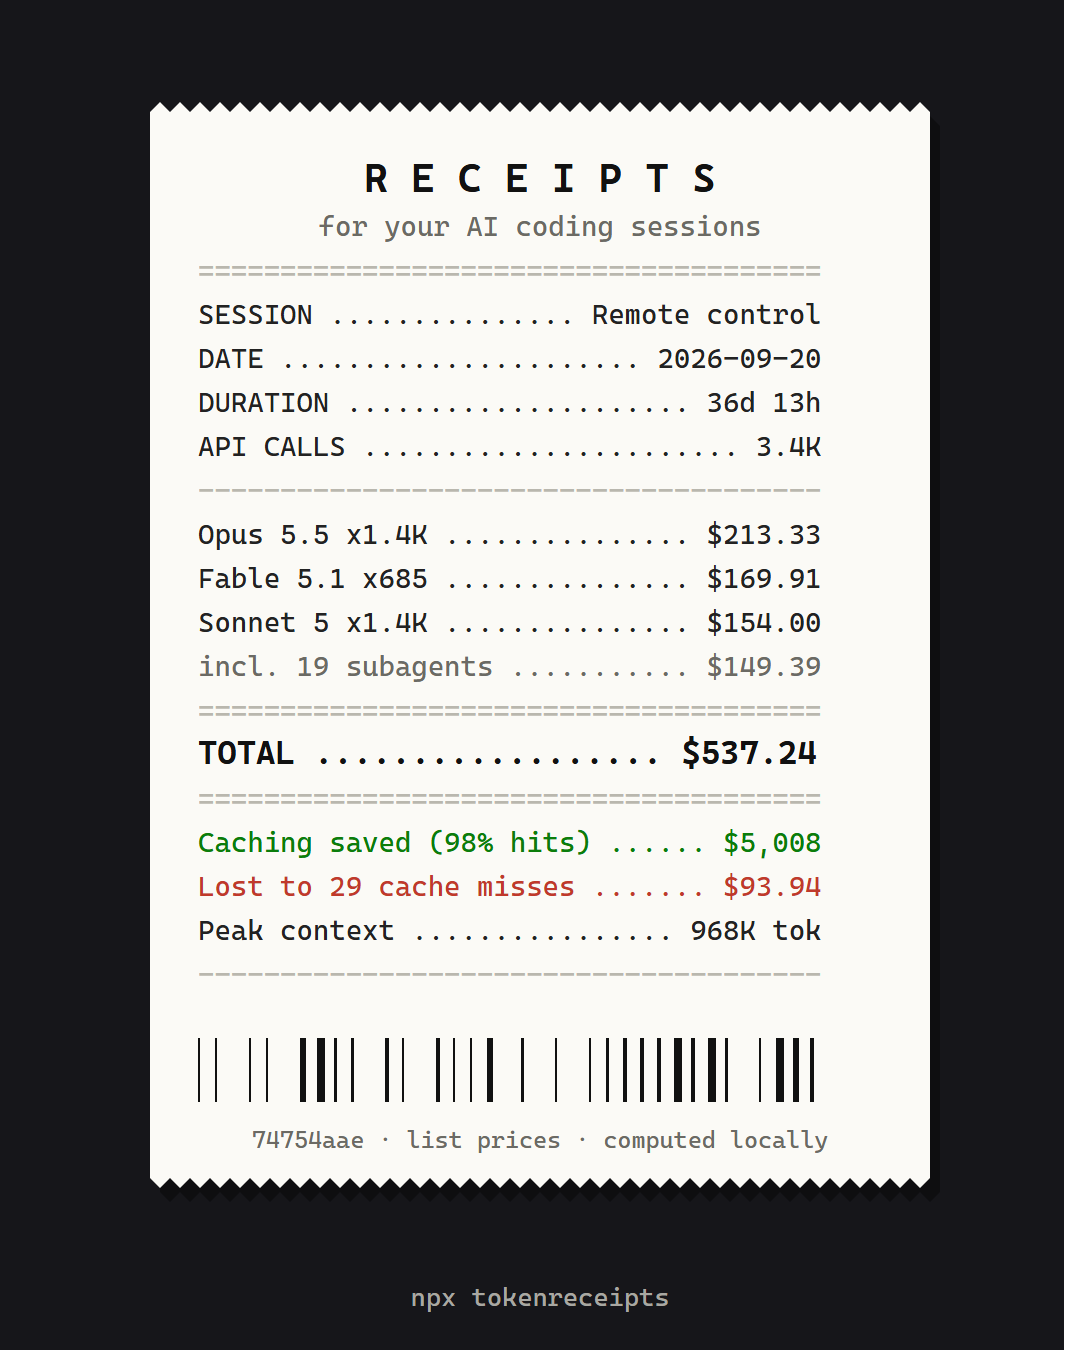
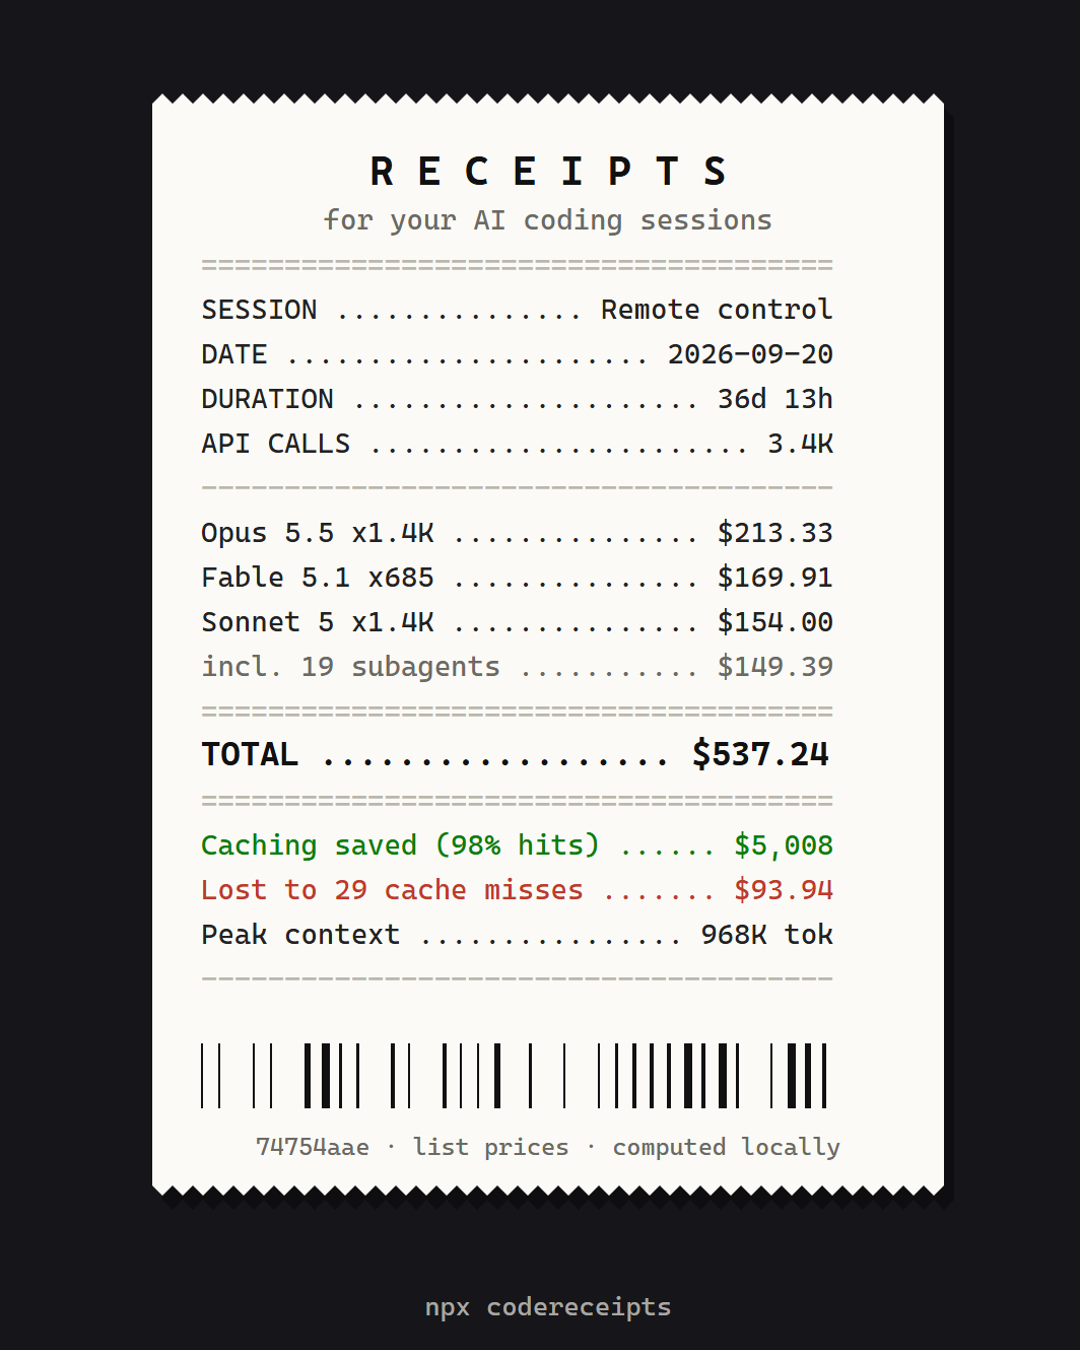
chore: rename package to codereceipts
npm rejects tokenreceipts as too similar to an existing package. The CLI command stays receipts; the data folder is now ~/.codereceipts and the environment variables use CODERECEIPTS_.

Changed region(s): [[0.1222, 0.0622, 0.8861, 0.9022], [0.9778, 0.0, 1.0, 1.0], [0.3972, 0.9333, 0.6111, 0.9956]]

diff --git a/site/index.html b/site/index.html
@@ -7,8 +7,8 @@
 <meta name="description" content="See what every Claude Code session really cost, where the tokens went, what the prompt cache saved and lost, and trim noisy output with savings you can prove. Local, free, open source.">
 <meta property="og:title" content="Receipts · your AI coding sessions, itemized">
 <meta property="og:description" content="Real cost per session, cache-miss forensics, a live cache countdown, and a lossless output trimmer. Runs locally.">
-<meta property="og:image" content="https://salman-moussa.github.io/tokenreceipts/card.png">
-<meta property="og:url" content="https://salman-moussa.github.io/tokenreceipts/">
+<meta property="og:image" content="https://salman-moussa.github.io/codereceipts/card.png">
+<meta property="og:url" content="https://salman-moussa.github.io/codereceipts/">
 <meta name="twitter:card" content="summary_large_image">
 <style>
 :root {
@@ -137,14 +137,14 @@ footer { border-top: 1px solid var(--line); padding: 32px 0 48px; color: var(--i
 <div class="wrap">
   <nav>
     <div class="mark">RECEIPTS</div>
-    <div class="links"><a href="#features">Features</a><a href="#install">Install</a><a href="https://github.com/salman-moussa/tokenreceipts">GitHub</a></div>
+    <div class="links"><a href="#features">Features</a><a href="#install">Install</a><a href="https://github.com/salman-moussa/codereceipts">GitHub</a></div>
   </nav>
 
   <div class="hero">
     <div>
       <h1>Your AI coding sessions, itemized.</h1>
       <p class="lede">Receipts reads the transcripts Claude Code already keeps on your machine and shows what every session really cost, where the tokens went, what the prompt cache saved, and what you lost when it went cold. Then it helps you pay less, and proves it.</p>
-      <div class="cmd"><span id="cmdText">npx tokenreceipts</span><button type="button" data-copy="npx tokenreceipts">Copy</button></div>
+      <div class="cmd"><span id="cmdText">npx codereceipts</span><button type="button" data-copy="npx codereceipts">Copy</button></div>
       <div class="sub-cta">Free and open source. Runs locally. No account, no upload.</div>
     </div>
     <div class="paper" aria-label="Example receipt">
@@ -235,7 +235,7 @@ $9.80 <span class="d">$5.10/h</span> <span class="d">│</span> cache 91% <span 
         <div><div class="label">What it counts</div><div class="term"><pre>raw output ......... 3,605 tok
 kept ................. 104 tok
 <span class="g">saved .............. 3,501 tok</span>
-<span class="d">full log: ~/.tokenreceipts/raw/</span>
+<span class="d">full log: ~/.codereceipts/raw/</span>
 
 <span class="d">A token kept out early is not
 re-read by any later turn, up to
@@ -278,10 +278,10 @@ happened.</span></pre></div></div>
     <h2>Pick one. Takes a minute.</h2>
     <p class="intro">Requires Node 20 or newer and Claude Code.</p>
     <div class="install">
-      <div class="card"><h4>Just look</h4><p>Print the receipt for your latest session. Nothing is installed.</p><code>npx tokenreceipts</code></div>
-      <div class="card"><h4>Status line + trimmer</h4><p>Adds both to Claude Code. Your settings are backed up first.</p><code>npx tokenreceipts install</code></div>
-      <div class="card"><h4>Claude Code plugin</h4><p>Trimmer, the receipt skill and the scout agent.</p><code>/plugin marketplace add salman-moussa/tokenreceipts
-/plugin install tokenreceipts@tokenreceipts</code></div>
+      <div class="card"><h4>Just look</h4><p>Print the receipt for your latest session. Nothing is installed.</p><code>npx codereceipts</code></div>
+      <div class="card"><h4>Status line + trimmer</h4><p>Adds both to Claude Code. Your settings are backed up first.</p><code>npx codereceipts install</code></div>
+      <div class="card"><h4>Claude Code plugin</h4><p>Trimmer, the receipt skill and the scout agent.</p><code>/plugin marketplace add salman-moussa/codereceipts
+/plugin install codereceipts@codereceipts</code></div>
     </div>
   </section>
 
@@ -292,13 +292,13 @@ happened.</span></pre></div></div>
       <div><b>From your own transcripts</b>Claude Code logs the exact token usage of every API call. Receipts reads those files and counts each call once.</div>
       <div><b>List prices, per model</b>Fresh input, cache writes at 1.25x (5-minute) or 2x (1-hour), cache reads priced per model, output, fast mode at 2x. Subagents included.</div>
       <div><b>Conservative savings</b>Trim savings count only what Claude would really have read, and stop at the next compaction.</div>
-      <div><b>Private</b>No network calls. Reads <code>~/.claude/projects</code>, writes to <code>~/.tokenreceipts</code>. Plans and discounts can make your real bill differ.</div>
+      <div><b>Private</b>No network calls. Reads <code>~/.claude/projects</code>, writes to <code>~/.codereceipts</code>. Plans and discounts can make your real bill differ.</div>
     </div>
   </section>
 
   <footer>
     <span>Receipts · MIT licensed · Made by Salman Moussa</span>
-    <a href="https://github.com/salman-moussa/tokenreceipts">github.com/salman-moussa/tokenreceipts</a>
+    <a href="https://github.com/salman-moussa/codereceipts">github.com/salman-moussa/codereceipts</a>
   </footer>
 </div>
 <script>

diff --git a/src/install.js b/src/install.js
@@ -11,7 +11,7 @@ const OURS = /^node "[^"]*[\\/]cli[\\/]receipts\.js" (?:hook|statusline)$/;
 const isOursCmd = (/** @type {any} */ cmd) => typeof cmd === 'string' && OURS.test(cmd.trim());
 
 /**
- * Copy the CLI to ~/.tokenreceipts/app so settings never point at an npx
+ * Copy the CLI to ~/.codereceipts/app so settings never point at an npx
  * cache folder that disappears when the cache is cleared or a new version
  * comes out.
  */
@@ -46,7 +46,7 @@ function writeSettings(/** @type {any} */ settings) {
 }
 
 /** @param {any} settings */
-const pluginEnabled = (settings) => Object.entries(settings.enabledPlugins || {}).some(([k, v]) => k.startsWith('tokenreceipts@') && v);
+const pluginEnabled = (settings) => Object.entries(settings.enabledPlugins || {}).some(([k, v]) => k.startsWith('codereceipts@') && v);
 
 /** Remove only our hook entries; drop a matcher group only if it held nothing else. */
 function stripHooks(/** @type {any[]} */ groups) {
@@ -83,7 +83,7 @@ export function withReceipts(settings, cli) {
     s.hooks ??= {};
     s.hooks.PostToolUse ??= [];
     s.hooks.PostToolUse.push({ matcher: 'Bash', hooks: [{ type: 'command', command: `${cmd} hook`, timeout: 15 }] });
-    notes.push('Trimmer: noisy output of successful commands is trimmed, errors kept, full output saved to ~/.tokenreceipts/raw.');
+    notes.push('Trimmer: noisy output of successful commands is trimmed, errors kept, full output saved to ~/.codereceipts/raw.');
   }
   return { settings: s, notes };
 }
@@ -105,7 +105,7 @@ export function install() {
   writeSettings(settings);
   console.log(`Updated ${settingsFile()} (your original is kept in settings.json.receipts-backup)\n`);
   for (const n of notes) console.log(`  - ${n}`);
-  console.log('\nRestart Claude Code to see it. Turn the trimmer off any time with TOKENRECEIPTS_TRIM=off.');
+  console.log('\nRestart Claude Code to see it. Turn the trimmer off any time with CODERECEIPTS_TRIM=off.');
 }
 
 export function uninstall() {

diff --git a/test/features.test.js b/test/features.test.js
@@ -4,7 +4,7 @@ import fs from 'node:fs';
 import os from 'node:os';
 import path from 'node:path';
 
-process.env.TOKENRECEIPTS_HOME = fs.mkdtempSync(path.join(os.tmpdir(), 'receipts-test-'));
+process.env.CODERECEIPTS_HOME = fs.mkdtempSync(path.join(os.tmpdir(), 'receipts-test-'));
 
 const { trim, classify } = await import('../src/trim.js');
 const { handle } = await import('../src/hook.js');
@@ -123,7 +123,7 @@ test('install: adds status line and hook, keeps a foreign status line, uninstall
   assert.equal(kept.hooks.PostToolUse.length, 2);
   assert.deepEqual(withoutReceipts(kept), mine);
 
-  const viaPlugin = withReceipts({ enabledPlugins: { 'tokenreceipts@tokenreceipts': true } }, '/x').settings;
+  const viaPlugin = withReceipts({ enabledPlugins: { 'codereceipts@codereceipts': true } }, '/x').settings;
   assert.equal(viaPlugin.hooks, undefined, 'plugin already provides the hook');
 });
 
@@ -141,10 +141,10 @@ test('bench: averages per arm, ignores failed runs, shows delta vs baseline', ()
   const runs = [
     { arm: 'baseline', run: 1, cost: 0.2, turns: 6, ms: 30000, pass: true, error: '', trimmed: 0, hitRate: 0.8 },
     { arm: 'baseline', run: 2, cost: 0.4, turns: 8, ms: 50000, pass: false, error: '', trimmed: 0, hitRate: 0.8 },
-    { arm: 'tokenreceipts', run: 1, cost: 0.15, turns: 5, ms: 25000, pass: true, error: '', trimmed: 3000, hitRate: 0.9 },
-    { arm: 'tokenreceipts', run: 2, cost: 0, turns: 0, ms: 1000, pass: null, error: 'auth', trimmed: 0, hitRate: 0 },
+    { arm: 'codereceipts', run: 1, cost: 0.15, turns: 5, ms: 25000, pass: true, error: '', trimmed: 3000, hitRate: 0.9 },
+    { arm: 'codereceipts', run: 2, cost: 0, turns: 0, ms: 1000, pass: null, error: 'auth', trimmed: 0, hitRate: 0 },
   ];
-  const s = summarize(runs, ['baseline', 'tokenreceipts']);
+  const s = summarize(runs, ['baseline', 'codereceipts']);
   assert.equal(s[0].cost, 0.30000000000000004);
   assert.equal(s[0].passRate, 0.5);
   assert.equal(s[1].ok, 1);

diff --git a/src/hook.js b/src/hook.js
@@ -17,7 +17,7 @@ const shownLimit = () => Number(process.env.BASH_MAX_OUTPUT_LENGTH) || 30_000;
  * @returns {object | null} the hook response, or null to leave the output alone
  */
 export function handle(input) {
-  if (process.env.TOKENRECEIPTS_TRIM === 'off') return null;
+  if (process.env.CODERECEIPTS_TRIM === 'off') return null;
   if (input?.hook_event_name !== 'PostToolUse' || input.tool_name !== 'Bash') return null;
   const resp = input.tool_response;
   if (!resp || typeof resp !== 'object' || resp.isImage) return null;

diff --git a/src/render/card.js b/src/render/card.js
@@ -93,7 +93,7 @@ export function cardSvg(a) {
   ${body}
   ${bars}
   <text x="${W / 2}" y="${by + 110}" text-anchor="middle" font-size="24" fill="#6b6a64">${esc(a.id.slice(0, 8))} · list prices · computed locally</text>
-  <text x="${W / 2}" y="${H - 44}" text-anchor="middle" font-size="26" fill="#a9a8a2">npx tokenreceipts</text>
+  <text x="${W / 2}" y="${H - 44}" text-anchor="middle" font-size="26" fill="#a9a8a2">npx codereceipts</text>
 </svg>`;
 }
 

diff --git a/test/core.test.js b/test/core.test.js
@@ -5,7 +5,7 @@ import os from 'node:os';
 import path from 'node:path';
 import { fileURLToPath } from 'node:url';
 
-process.env.TOKENRECEIPTS_HOME = fs.mkdtempSync(path.join(os.tmpdir(), 'receipts-test-'));
+process.env.CODERECEIPTS_HOME = fs.mkdtempSync(path.join(os.tmpdir(), 'receipts-test-'));
 
 const { costOf, priceFor, missPenalty } = await import('../src/pricing.js');
 const { loadSession } = await import('../src/transcripts.js');

diff --git a/src/ledger.js b/src/ledger.js
@@ -3,7 +3,7 @@ import path from 'node:path';
 import os from 'node:os';
 
 export function home() {
-  return process.env.TOKENRECEIPTS_HOME || path.join(os.homedir(), '.tokenreceipts');
+  return process.env.CODERECEIPTS_HOME || path.join(os.homedir(), '.codereceipts');
 }
 
 const ledgerFile = () => path.join(home(), 'ledger.jsonl');

diff --git a/README.md b/README.md
@@ -3,7 +3,7 @@
 **Your AI coding sessions, itemized.** Receipts reads the transcripts Claude Code already keeps on your machine and tells you what each session really cost, where the tokens went, how much the prompt cache saved you, and how much you lost when it went cold. Then it helps you pay less, and proves it.
 
 ```bash
-npx tokenreceipts
+npx codereceipts
 ```
 
 No account, no API key, no upload. Everything runs locally. Zero runtime dependencies.
@@ -50,20 +50,20 @@ receipts bench --task "fix the failing test" --plugin ../some-plugin --check "np
 Run it once, no install:
 
 ```bash
-npx tokenreceipts
+npx codereceipts
 ```
 
 Add the live status line and the trimmer to Claude Code (backs up your settings first):
 
 ```bash
-npx tokenreceipts install
+npx codereceipts install
 ```
 
-Or install it as a Claude Code plugin (trimmer, `/tokenreceipts:receipt` skill and a cheap `scout` search agent):
+Or install it as a Claude Code plugin (trimmer, `/codereceipts:receipt` skill and a cheap `scout` search agent):
 
 ```
-/plugin marketplace add salman-moussa/tokenreceipts
-/plugin install tokenreceipts@tokenreceipts
+/plugin marketplace add salman-moussa/codereceipts
+/plugin install codereceipts@codereceipts
 ```
 
 ## Commands
@@ -92,12 +92,12 @@ Your real bill can differ: subscription plans, discounts and gateways are not vi
 
 ## Privacy
 
-Receipts only reads files on your machine (`~/.claude/projects`) and writes to `~/.tokenreceipts`. It makes no network calls. The share card contains numbers and the session title, never code or file paths.
+Receipts only reads files on your machine (`~/.claude/projects`) and writes to `~/.codereceipts`. It makes no network calls. The share card contains numbers and the session title, never code or file paths.
 
 ## Turning things off
 
-- Trimmer off for one session: `TOKENRECEIPTS_TRIM=off claude`
-- Remove everything: `npx tokenreceipts uninstall`, or uninstall the plugin.
+- Trimmer off for one session: `CODERECEIPTS_TRIM=off claude`
+- Remove everything: `npx codereceipts uninstall`, or uninstall the plugin.
 
 ## License
 
